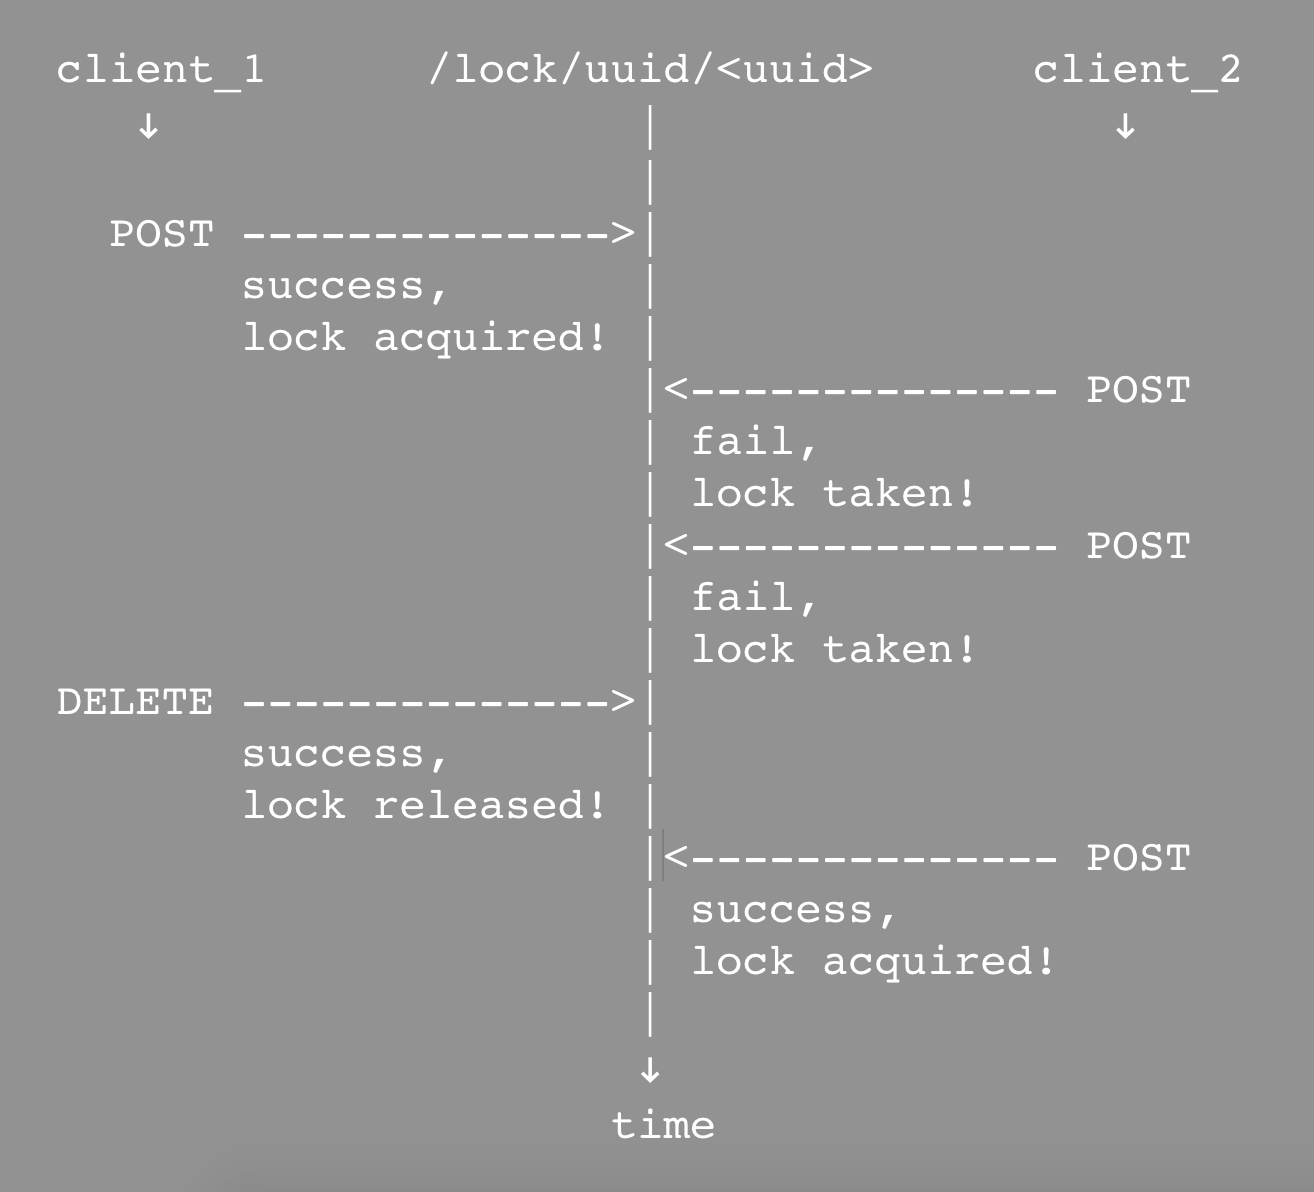
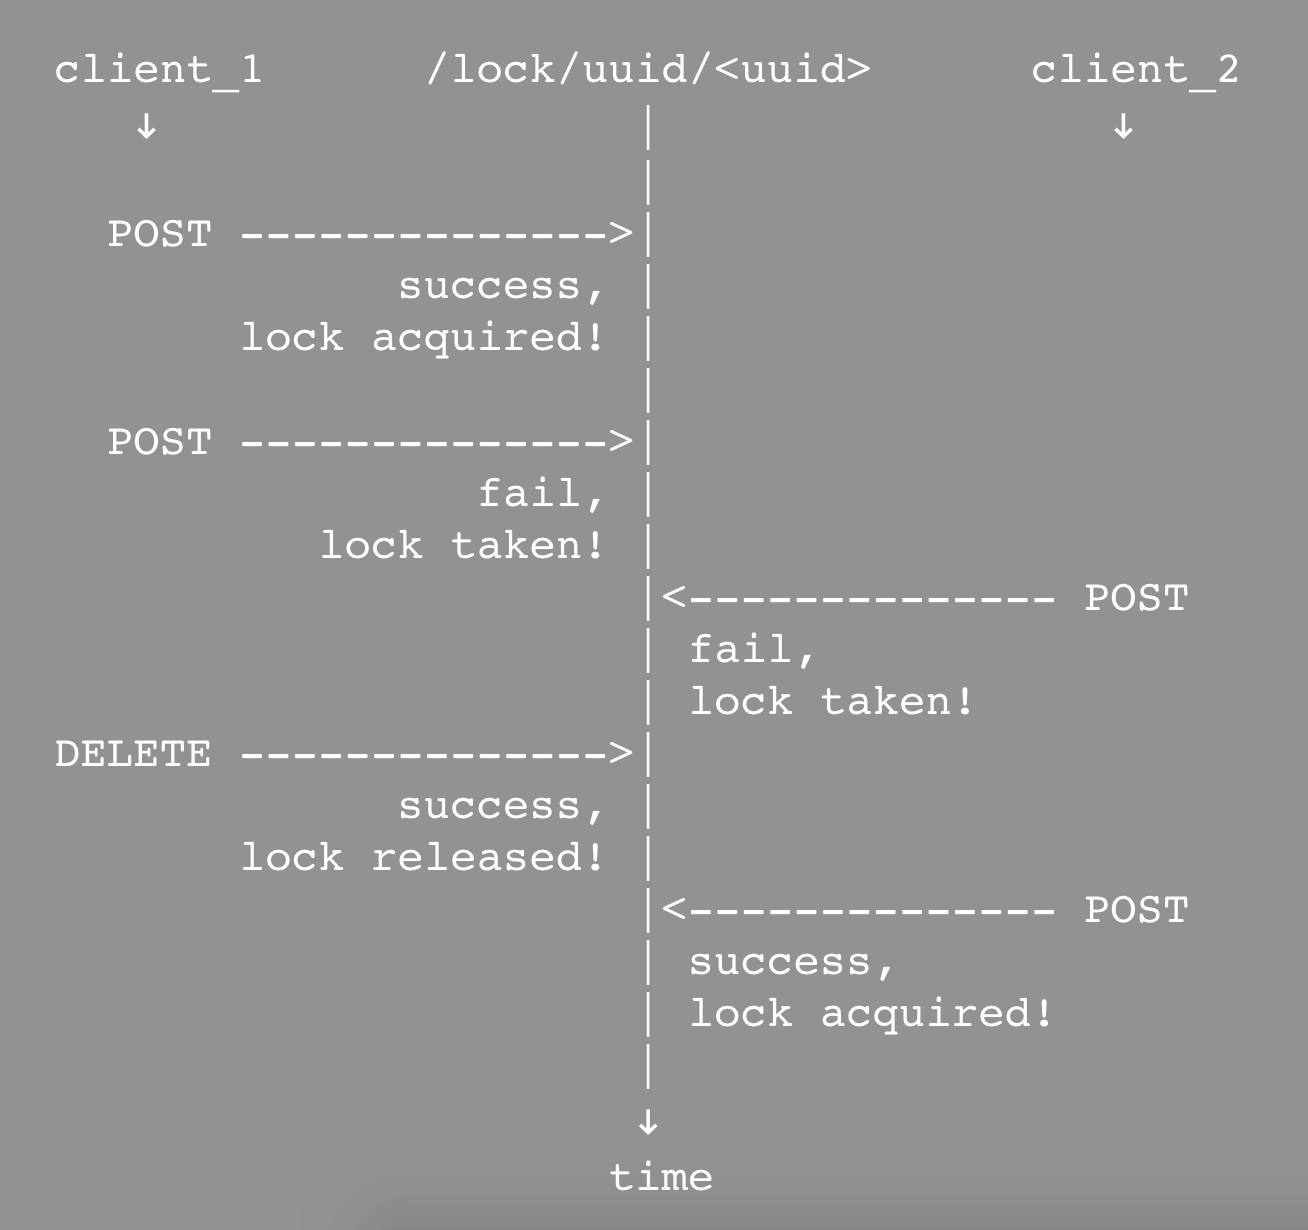
Add diagram to explain secret

diff --git a/source/index.html.md b/source/index.html.md
@@ -71,7 +71,9 @@ curl -X DELETE \
     https://public.locklock.io/v1/api/lock/uuid/180da65c-cf80-4997-8574-0c0801817d6f
 ```
 
-If a `secret` is provided when acquiring the lock, a `secret` is required to release the lock (unless the lock expires).
+If a `secret` is provided when acquiring the lock, that same `secret` is required to release the lock (unless the lock expires). This may be useful in situations where multiple clients have knowledge of the lock id:
+
+![Timeline secret](images/timeline-secret.png)
 
 # Pro accounts
 
